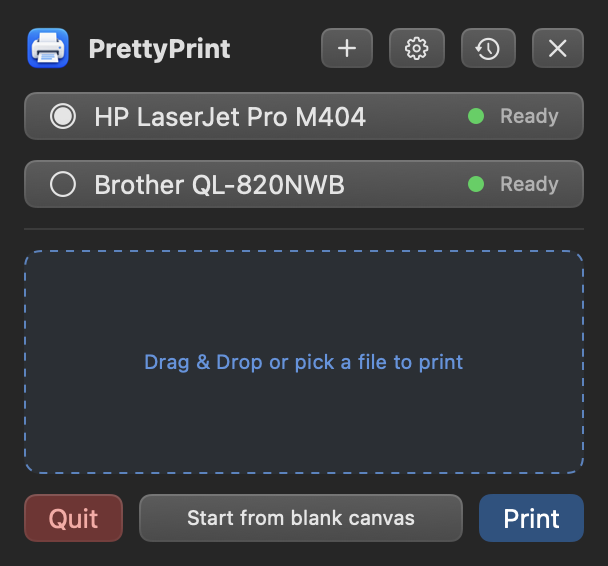
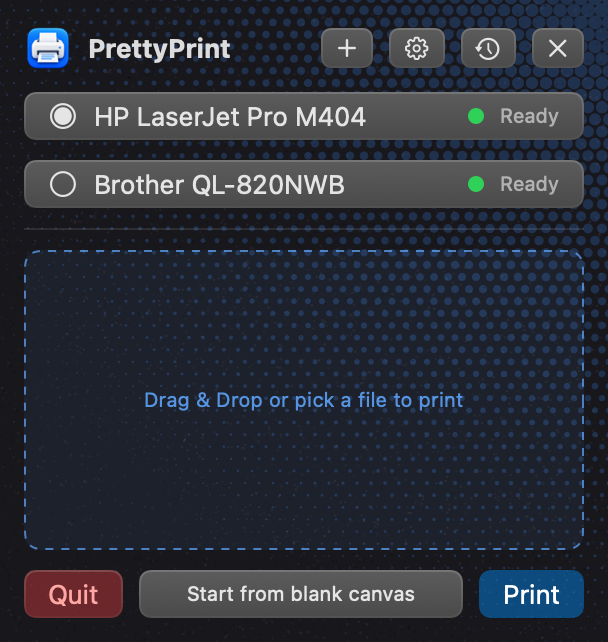
Update the site screenshot to the 1.5 popover

diff --git a/docs/index.html b/docs/index.html
@@ -143,7 +143,7 @@ footer { border-top: 1px solid var(--rule); padding-top: 28px; padding-bottom: 4
     </div>
     <figure class="plate">
       <span class="crop tl"></span><span class="crop tr"></span><span class="crop bl"></span><span class="crop br"></span>
-      <img src="popover.png" width="304" height="283" alt="The PrettyPrint menu bar panel with two printers listed as ready, a file drop area, and Quit, Start from blank canvas, and Print buttons.">
+      <img src="popover.png" width="304" height="321" alt="The PrettyPrint menu bar panel with two printers listed as ready, a file drop area, and Quit, Start from blank canvas, and Print buttons.">
     </figure>
   </div>
 
